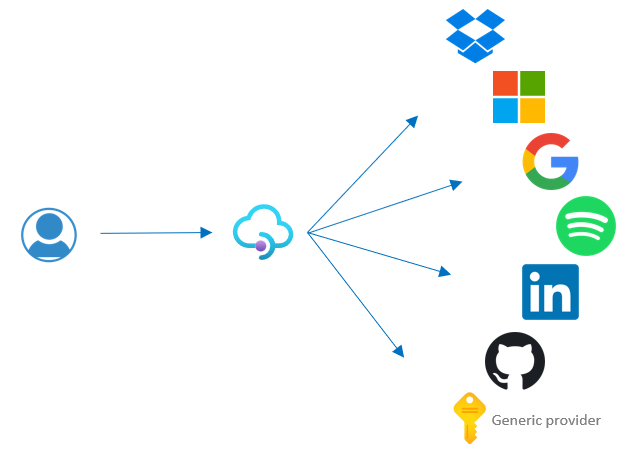
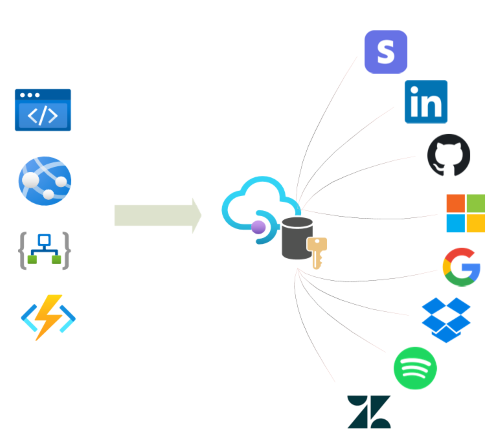
Update readme (#3)
* update readme

diff --git a/README.md b/README.md
@@ -1,43 +1,50 @@
 
-# Azure API Management Authorizations (preview)
+# Azure API Management Authorizations (preview) :rocket: 
+
+Introducing **[API Management Authorizations](https://docs.microsoft.com/en-gb/azure/api-management/authorizations-overview)** 🗝  - *Simple, Distributed, Secure, Managed Token Store*
+
+<p align="center">
+  <img src="overview.png" />
+</p>
 
 
-This repository consists of samples of how to use the Azure API Management Authorizations feature. 
-To get more information please visit the official Azure documentation [here](https://docs.microsoft.com/en-gb/azure/api-management/authorizations-overview). 
+### Overview 🎁
+API Management Authorizations greatly simplifies the process of authenticating and authorizing user's across one (or) more SaaS services 👍. It reduces the development cost in ramping up, implementing and maintaining security features with service integrations 💰.
 
-![Overview of Authorizations](overview.png) 
+Configure OAuth, Consent, Acquire Tokens, Cache Tokens and Refresh Tokens for multiple-services without writing a single line of code. Let API Management do all the heavy lifting for you, while you focus on the application/domain logic.
 
+To get more information, please visit the official Azure documentation [here](https://docs.microsoft.com/en-gb/azure/api-management/authorizations-overview).   
 
-
-### Overview 
-API Management Authorizations feature simplify the process of managing access tokens when sending requests to APIs secured by an OAuth 2.0 authorization scheme.
-
-By configuring any of the supported identity providers and create an authorization API Management can retrieve access tokens and refresh them when needed based on the expiry of the token lifetime. 
-The tokens retrieved can be attached as a header to a backend request in API Management or sent back to a client where the access token can be used.  
-
-### Identity providers
-
-The supported identity providers for public preview are: 
-- Azure Active Directory
-- Dropbox
-- GitHub
-- Google
-- LinkedIn
-- Spotify
-- Generic OAuth 2.0 provider
- 
-With the Generic OAuth 2.0 provider it’s possible to connect to any identity provider that supports authorization code and is following the OAuth 2.0 standard.
-
-This feature is supported for all API Management SKUs. 
-
-### Scenarios
+### Scenarios 🧰
 
 Here are some example scenarios where this feature could be used:
-- Citizen/low code developers using Power Apps or Power Automate can easily connect to SaaS providers that are using OAuth 2.0.
-- Unattended scenarios such as an Azure function using a Timer trigger can utilize this feature to connect to a backend API using OAuth 2.0.
-- A marketing team on an enterprise company could use the same authorization for interacting with a social media platform using OAuth 2.0.
-- Exposing APIs in API Management as a Logic Apps Custom Connector in Logic Apps where the backend service requires OAuth 2.0 flow.
-- On behalf of scenario where a service such as Dropbox can be used by multiple users.
-- Connect to different services that requires authorization OAuth 2.0 using GraphQL Federation in API Management.
-- Enterprise Application Integration (EAI) patterns using service-to-service authorization can use client credentials grant type against backend APIs that are using OAuth 2.0.
-- SPA applications that only want to retrieve an access token to be used in a client SDKs against an API using OAuth 2.0.
+- Easily connect to SaaS backend by attaching the stored Authorization Token and proxying requests. 
+- Proxy requests to a Azure AppService WebApp (or) Azure Functions backend by attaching the Authorization Token that can later send requests to SaaS backend applying transformation logic. 
+- Proxy requests to GraphQL federation backends by attaching multiple access tokens to easy perform federation.
+- Expose a retrieve token endpoint, acquire cached token and call the SaaS on-behalf of user from any compute, say Console App or Kubernetes Demon. Combine your fav. SaaS Sdk in a supported language.
+- Azure Functions unattended scenarios is a breeze while connecting to multiple SaaS.
+- Durable Functions gets a step closer to Logic Apps with SaaS connectivity.
+- Every API in API Management can act as a Logic Apps Custom Connector.
+
+## Contributing
+
+This project welcomes contributions and suggestions.  Most contributions require you to agree to a
+Contributor License Agreement (CLA) declaring that you have the right to, and actually do, grant us
+the rights to use your contribution. For details, visit https://cla.opensource.microsoft.com.
+
+When you submit a pull request, a CLA bot will automatically determine whether you need to provide
+a CLA and decorate the PR appropriately (e.g., status check, comment). Simply follow the instructions
+provided by the bot. You will only need to do this once across all repos using our CLA.
+
+This project has adopted the [Microsoft Open Source Code of Conduct](https://opensource.microsoft.com/codeofconduct/).
+For more information see the [Code of Conduct FAQ](https://opensource.microsoft.com/codeofconduct/faq/) or
+contact [opencode@microsoft.com](mailto:opencode@microsoft.com) with any additional questions or comments.
+
+
+## Trademarks
+
+This project may contain trademarks or logos for projects, products, or services. Authorized use of Microsoft 
+trademarks or logos is subject to and must follow 
+[Microsoft's Trademark & Brand Guidelines](https://www.microsoft.com/en-us/legal/intellectualproperty/trademarks/usage/general).
+Use of Microsoft trademarks or logos in modified versions of this project must not cause confusion or imply Microsoft sponsorship.
+Any use of third-party trademarks or logos are subject to those third-party's policies.
